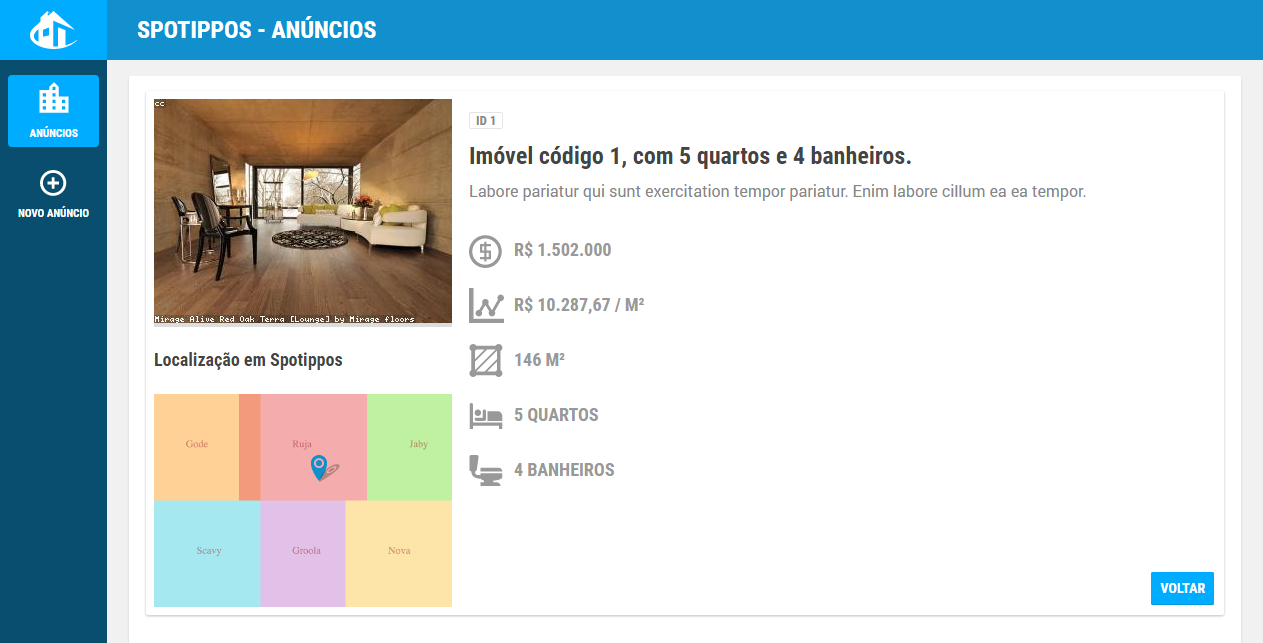
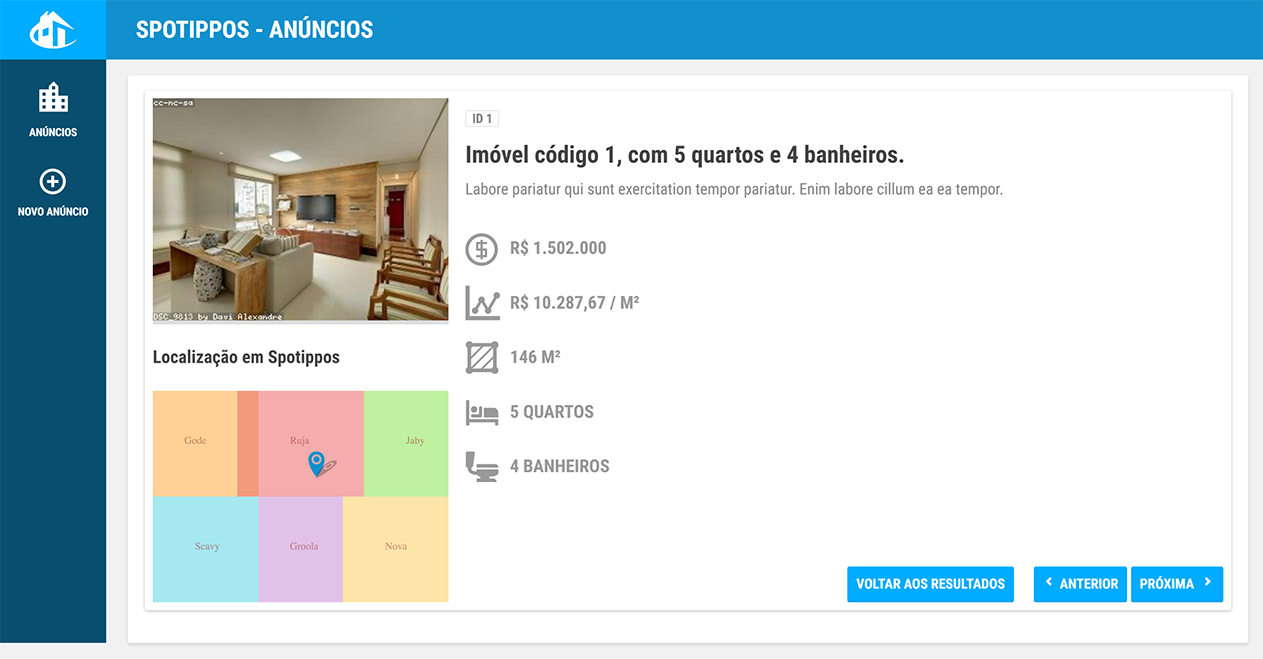
README for 1.2.0

Changed region(s): [[0.0, 0.0311, 1.0, 0.9953], [0.0, 0.9642, 0.0926, 1.0], [0.1544, 0.8087, 0.1853, 0.8398]]

diff --git a/README.md b/README.md
@@ -21,7 +21,7 @@ Após a instalação de ambos, abra um prompt de comando (`cmd` no windows) e di
 git clone https://bitbucket.org/renato_rodrigues/vivareal-spotippos.git
 cd vivareal-spotippos
 npm install
-npm run server
+npm start
 ```
 
 ## Uso
@@ -29,13 +29,26 @@ Após a instalação, abra o endereço http://localhost:8000 em seu navegador.
 
 Além da listagem inicial, você poderá utilizar os 6 critérios disponíveis na barra lateral para refinar ainda mais a busca pelo seu imóvel ideal em Spotippos.
 
-Sempre que precisar utilizar novamente roda apenas `npm run server` e abra http://localhost:8000 no navegador.
+Sempre que precisar utilizar novamente roda apenas `npm start` e abra http://localhost:8000 no navegador.
+
+## Navegação por teclas
+A tela de detalhes de imóveis possui o recurso de navegação por teclas quando é aberta à partir de uma lista de resultados.
+
+Para navegar entre os imóveis utilize:
+
+| Teclas           | Ação                      |
+|------------------|---------------------------|
+| j, Seta Direita  | Próximo imóvel            |
+| k, Seta Esquerda | Imóvel anterior           |
+| u, backspace     | Volta aos resultados      |
+| ?                | Abre a listagem de teclas |
+
 
 ## Opções para desenvolvedores
 
 Os arquivos fonte do projeto estão localizados na pasta *./app* estão organizados em uma estrutura que permite visualizar o resultado do desenvolvimento sem a necessidade de gerar um build a cada atualização. Para isto o `grunt` está configurado para gerar os assets na mesma pasta onde o servidor de DEV serve na porta 8080.
 
-Os testes automatizados por padrão rodam no PhantomJS, mas existe a opção de rodá-los também no Google Chrome.
+Os testes automatizados por padrão rodam no Google Chrome, mas existe a opção de rodá-los também no PhantomJS.
 
 
 
@@ -45,7 +58,7 @@ Os testes automatizados por padrão rodam no PhantomJS, mas existe a opção de 
 git clone https://bitbucket.org/renato_rodrigues/vivareal-spotippos.git
 cd vivareal-spotippos
 npm install
-npm run server-dev
+npm run server
 ```
 e para gerar os assets automaticamente, em outra janela digite
 
@@ -79,30 +92,44 @@ grunt build
 ##### Servidores locais
 Pasta *./app* com artefatos de desenvolvimento (porta 8080)
 ```sh
-npm run server-dev
+npm run server
 ```
 
-Pasta *./dist* com artefatos de produção (porta 8000)
+Pasta *./dist/app* com artefatos de produção (porta 8000)
 ```sh
-npm run server
+npm start
 ```
 
 ## Histórico de lançamentos
 
+* 1.2.0 _[09/08/2016]_
+    * Botões de navegação na tela de detalhes do anúncio
+    * Navegação entre imóveis com o teclado (j/k/u)
+    * Utilização do bower para gerenciar dependências
+    * Testes unitários em todos os controllers, services, filters e directives
+    * Relatório de cobertura de testes unitários
+    * Refactorings, melhorias estruturais e de Layout
+    * [changelog completo](CHANGELOG)
 * 1.1.0 _[09/06/2016]_
     * Tela de detalhe de imóveis
     * Mapa da localização do imóvel em Spotippos na tela de detalhe
+    * Relátorios de testes em formato Jasmine e JUNIT
 * 1.0.0 _[07/06/2016]_
     * Versão inicial
 
 ## Roadmap
+* 3.0.0
+    * Criação do próprio backend usando Node/Express/MongoDB
+
 * 2.0.0
     * Layout mobile first
-    * Calcular e exibir a província através da latitude e longitude
-    * Deploy automático para o S3/FTP
-    * Testes end-to-end
-* 1.2.0
-    * Filtro por províncias na barra lateral
+    * Ordenação dos resultados
+    * Filtro por províncias na barra lateral    
+    * Tela de adição de imóvel
+    * Calcular e exibir a província através da latitude e longitude usando R-Tree
+    * Deploy automático para o S3/Heroku/FTP
+    * Testes end-to-end com protractor
+
 * ~~1.1.0~~
     * ~~Tela de detalhe de imóveis~~
     * ~~Mapa da localização do imóvel em Spotippos na tela de detalhe~~
